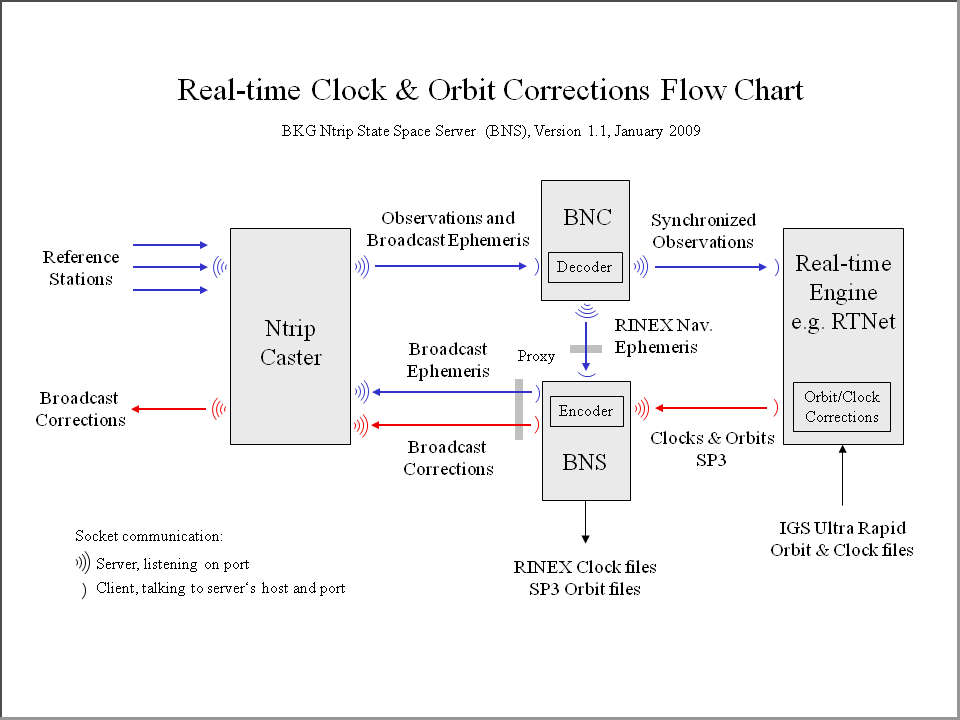
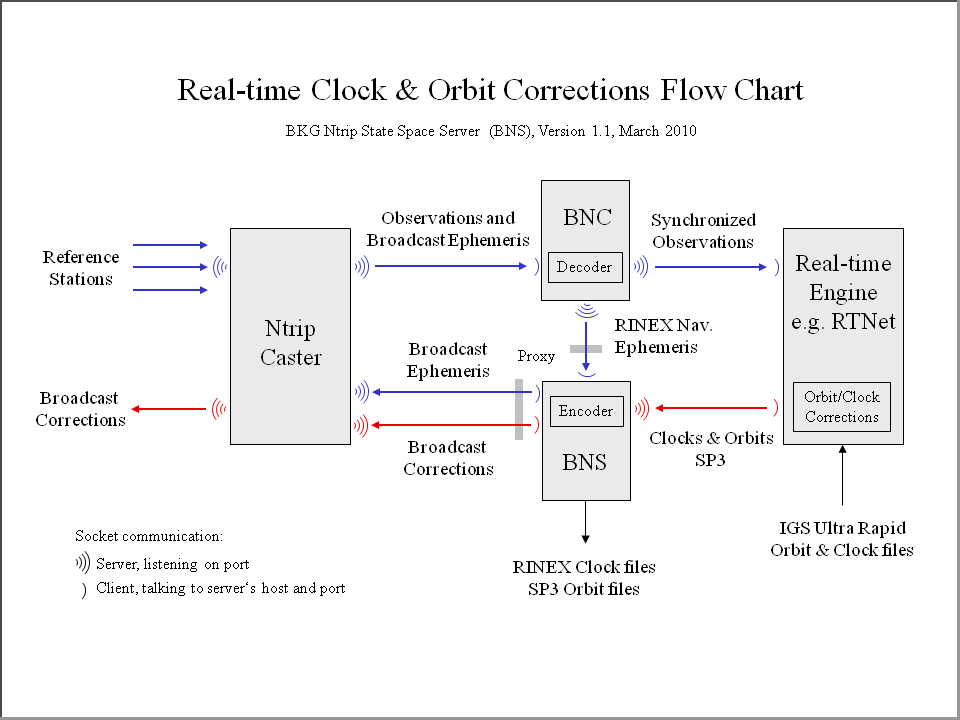
*** empty log message ***

diff --git a/BNS/bnshelp.html b/BNS/bnshelp.html
@@ -620,8 +620,8 @@ Frankfurt, Germany<br>
 </tr>
 
 <tr>
-<td>Dec 2009 &nbsp;</td><td>Version 1.1 &nbsp;</td>
-<td>[Add] Upgrade to Qt Version 4.4.3<br> [Add] Enable/disable tab widgets<br> [Add] User defined configuration file name<br> [mod] Switch to configuration files in ini-Format<br> [Add] Auto start<br> [Add] Drag and drop ini files<br> [Add] Optional reference to Center of Mass&lt; br&gt; [Mod] Update following RTCM 091-2009-SC104-542 document</td>
+<td>Marc 2010 &nbsp;</td><td>Version 1.1 &nbsp;</td>
+<td>[Add] Upgrade to Qt Version 4.4.3<br> [Add] Enable/disable tab widgets<br> [Add] User defined configuration file name<br> [mod] Switch to configuration files in ini-Format<br> [Add] Auto start<br> [Add] Drag and drop ini files<br> [Add] Optional reference to Center of Mass<br> [Mod] Update following RTCM 091-2009-SC104-542 document<br> [Add] NAD, GDA, SIRGAS transformations</td>
 </tr>
 
 </table>

diff --git a/BNS/bnsabout.html b/BNS/bnsabout.html
@@ -20,6 +20,6 @@ Make sure you installed the latest version available from<br>
 Disclaimer:<br>
 The Bundesamt fuer Geodaesie und Kartographie (BKG) may not be held liable for damages of any kind, direct or consequential, which may result from the use of this software.<br>
 <br>
-BKG, Frankfurt, Germany, October 2009<br>
+BKG, Frankfurt, Germany, March 2010<br>
 E-Mail: <a><u>euref-ip@bkg.bund.de</u></a>.<br>
 </p>
